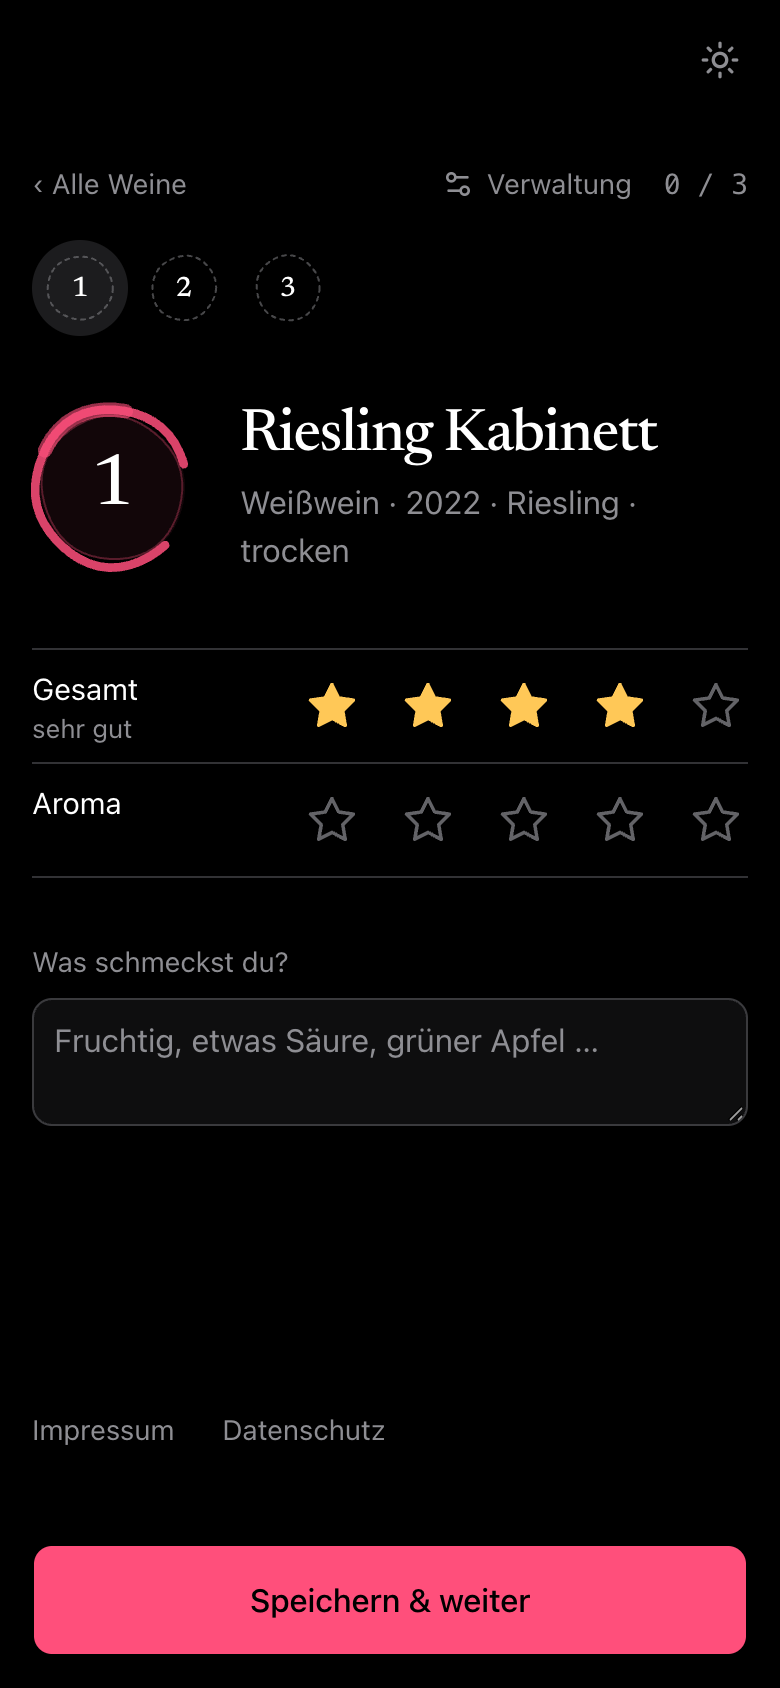
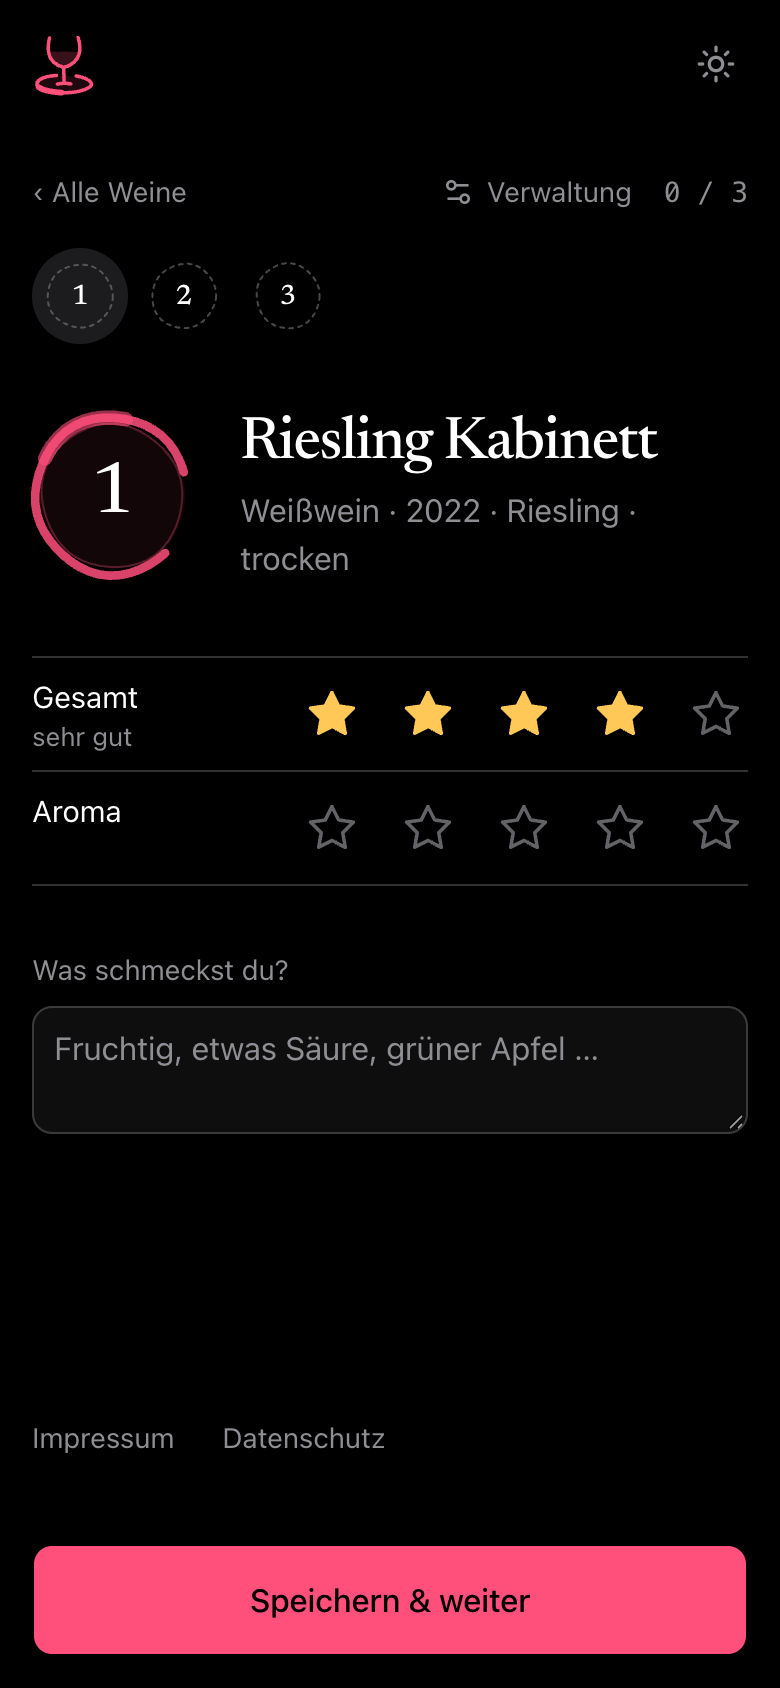
style(layout): align header on results and legal pages; new screenshots
- Results and reading frames for the narrower laptop columns
- README screenshots show the glass mark

diff --git a/src/lib/site-frame.test.ts b/src/lib/site-frame.test.ts
@@ -1,5 +1,5 @@
 import { expect, it } from 'vitest'
-import { siteFrame } from './site-frame'
+import { SITE_FRAME_CLASSES, siteFrame } from './site-frame'
 
 it('uses the admin width in the whole admin area', () => {
   expect(siteFrame('/tasting/8GXBW5/admin')).toBe('admin')
@@ -11,8 +11,17 @@ it('uses the wide width for the table view only', () => {
   expect(siteFrame('/tasting/8GXBW5/table/')).toBe('table')
 })
 
+it('gives the results page and the legal pages their narrower laptop column', () => {
+  expect(siteFrame('/tasting/8GXBW5/results')).toBe('results')
+  expect(siteFrame('/impressum')).toBe('reading')
+  expect(siteFrame('/datenschutz')).toBe('reading')
+  // Narrower than the page frame on laptops, identical below
+  expect(SITE_FRAME_CLASSES.results).toContain('lg:max-w-[960px]')
+  expect(SITE_FRAME_CLASSES.reading).toContain('lg:max-w-[720px]')
+})
+
 it('uses the page width everywhere else', () => {
-  for (const path of ['/', '/new', '/manage', '/impressum', '/tasting/8GXBW5', '/tasting/8GXBW5/wine/1', '/tasting/8GXBW5/results']) {
+  for (const path of ['/', '/new', '/manage', '/tasting/8GXBW5', '/tasting/8GXBW5/wine/1']) {
     expect(siteFrame(path)).toBe('page')
   }
   // Only the segment right after the code counts

diff --git a/src/lib/site-frame.ts b/src/lib/site-frame.ts
@@ -3,17 +3,24 @@
  * (PageShell, FormPage, TastingSplit, LegalPage, home → page; admin layout → admin; TableView → table)
  * and for the site header and footer, so logo, content and footer links share one left edge.
  */
-export type SiteFrame = 'page' | 'admin' | 'table'
+export type SiteFrame = 'page' | 'results' | 'reading' | 'admin' | 'table'
+
+const NARROW = 'max-w-[480px] px-4 sm:max-w-[720px] sm:px-6'
 
 export const SITE_FRAME_CLASSES: Record<SiteFrame, string> = {
-  page: 'max-w-[480px] px-4 sm:max-w-[720px] sm:px-6 lg:max-w-[1100px]',
+  page: `${NARROW} lg:max-w-[1100px]`,
+  // Results (PageShell wide) and the legal reading column stay narrower on laptops
+  results: `${NARROW} lg:max-w-[960px]`,
+  reading: `${NARROW} lg:max-w-[720px]`,
   admin: 'max-w-[1100px] px-4 sm:px-6',
   table: 'max-w-[1400px] px-4 sm:px-8 lg:px-12',
 }
 
 export function siteFrame(pathname: string): SiteFrame {
+  if (pathname === '/impressum' || pathname === '/datenschutz') return 'reading'
   const section = pathname.match(/^\/tasting\/[^/]+\/([^/]+)/)?.[1]
   if (section === 'admin') return 'admin'
   if (section === 'table') return 'table'
+  if (section === 'results') return 'results'
   return 'page'
 }

diff --git a/src/components/page-shell.tsx b/src/components/page-shell.tsx
@@ -11,9 +11,8 @@ export function PageShell({ children, width = 'narrow' }: { children: ReactNode;
     <main
       className={cn(
         'mx-auto w-full pt-6 pb-32 lg:pb-16',
-        SITE_FRAME_CLASSES.page,
-        width === 'narrow' && 'lg:pt-4',
-        width === 'wide' && 'lg:max-w-[960px] lg:pt-12',
+        width === 'narrow' ? SITE_FRAME_CLASSES.page : SITE_FRAME_CLASSES.results,
+        width === 'narrow' ? 'lg:pt-4' : 'lg:pt-12',
       )}
     >
       {width === 'narrow' ? <div className="lg:max-w-xl">{children}</div> : children}

diff --git a/src/components/legal-page.tsx b/src/components/legal-page.tsx
@@ -8,7 +8,7 @@ import { cn } from '@/lib/utils'
 export function LegalPage({ title, children }: { title: string; children: ReactNode }) {
   return (
     // Reading column: stays at the sm width on laptops too
-    <main className={cn('mx-auto w-full pt-6 pb-16 lg:pt-4', SITE_FRAME_CLASSES.page, 'lg:max-w-[720px]')}>
+    <main className={cn('mx-auto w-full pt-6 pb-16 lg:pt-4', SITE_FRAME_CLASSES.reading)}>
       <Link href="/" className={backLink}>
         ‹ Zur Startseite
       </Link>
